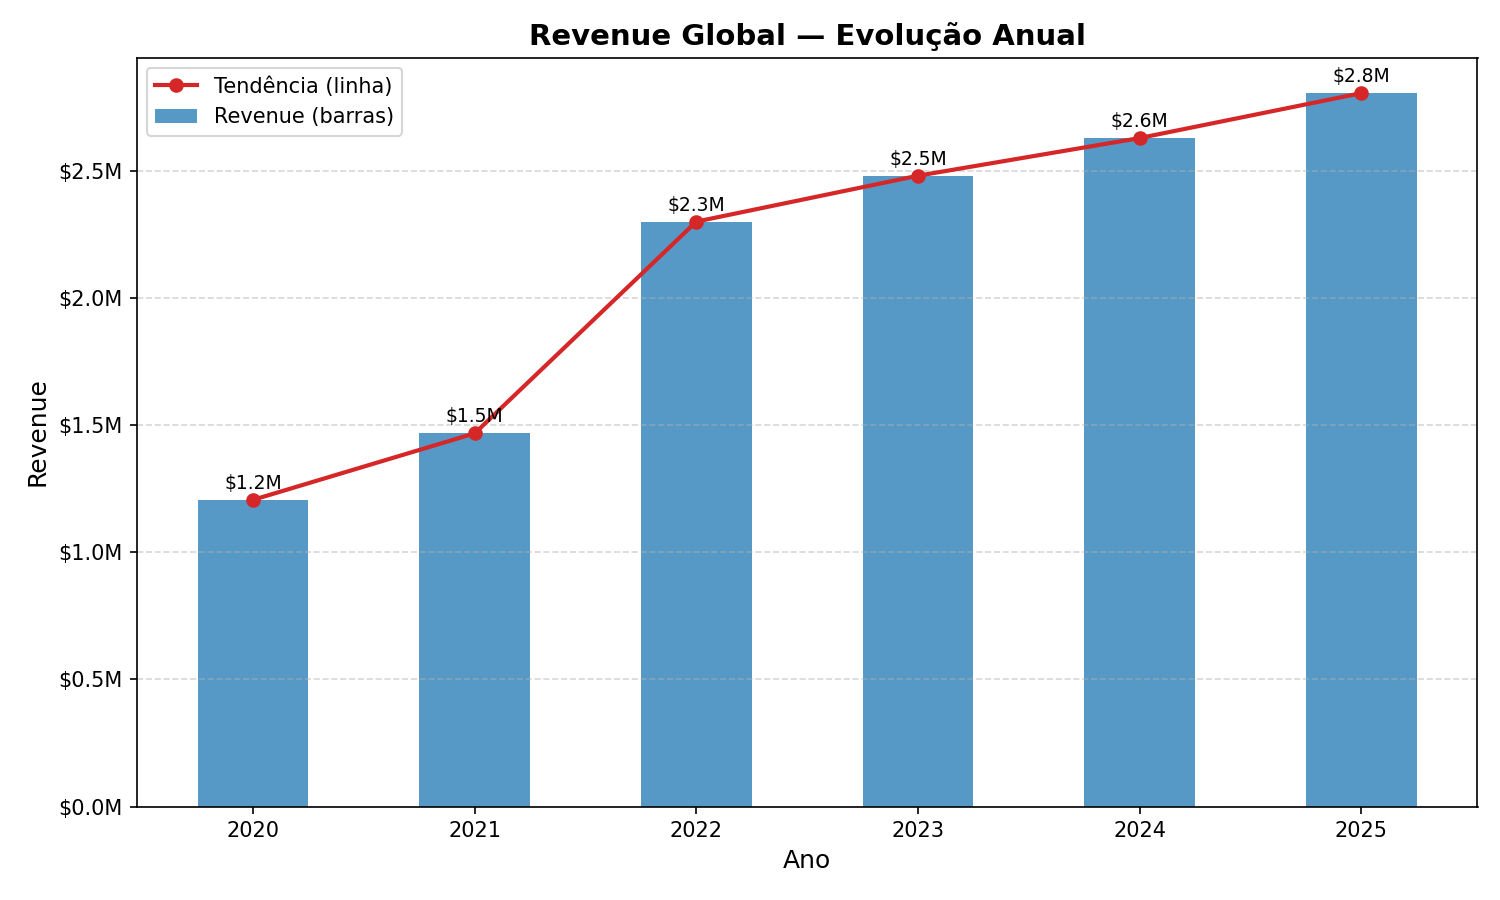
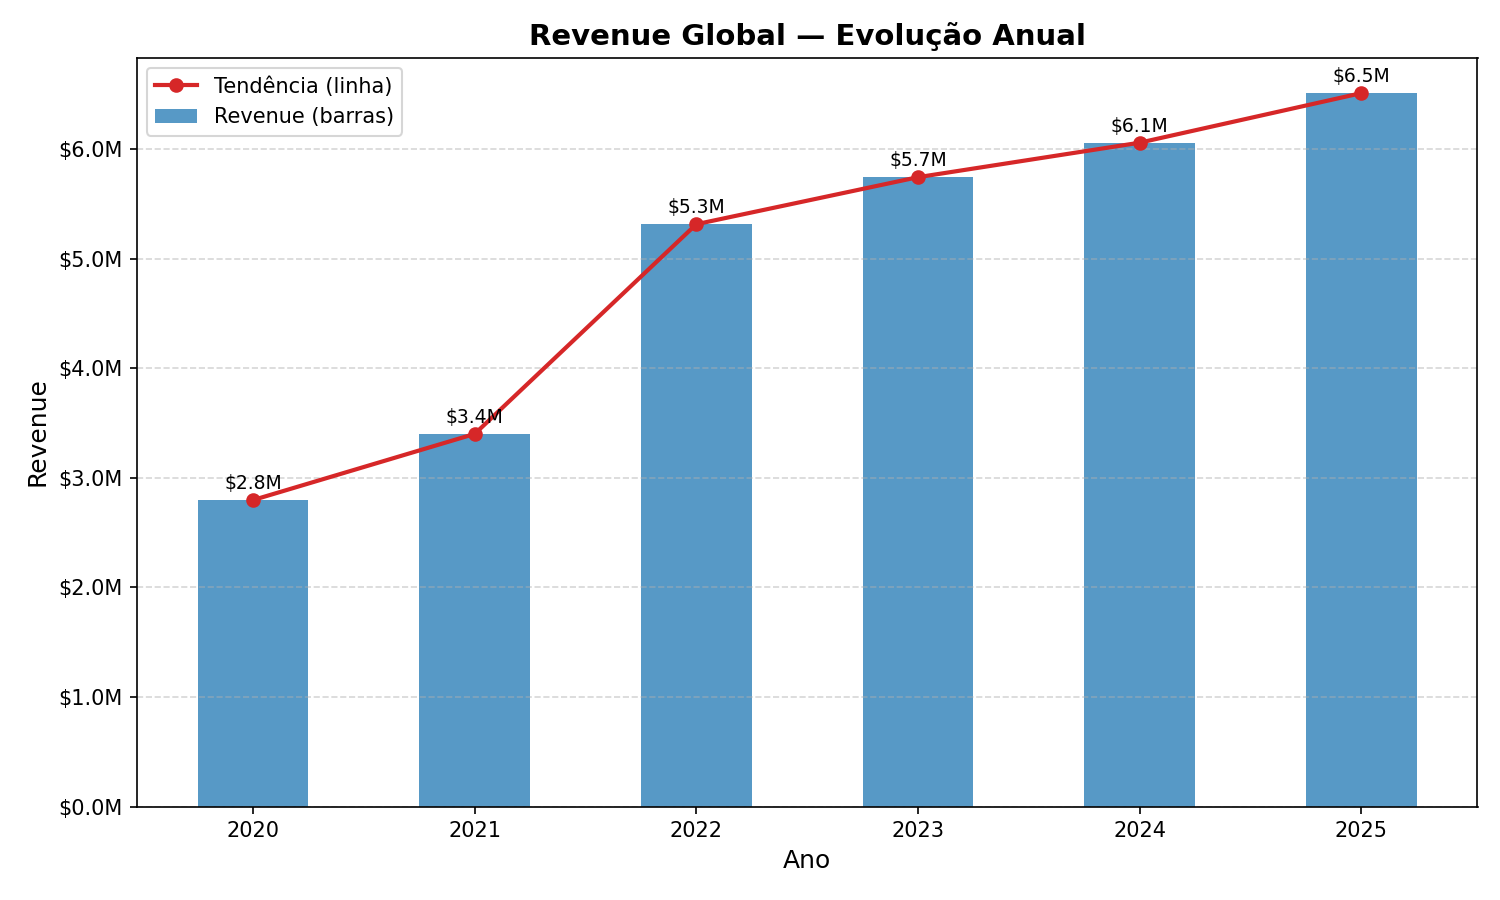
revenue

diff --git a/Financeiro/global/revenue_global.py b/Financeiro/global/revenue_global.py
@@ -15,7 +15,7 @@ OUTPUT_DIR = BASE_DIR  # gráficos guardados na mesma pasta
 
 # ── Load & prepare ─────────────────────────────────────────────────────────────
 df = pd.read_csv(DATA_PATH)
-df["Revenue"] = df["Sales_Price"] - df["Production_Cost"] - df["Shipping_Cost"]
+df["Revenue"] = df["Sales_Price"] 
 
 global_revenue = (
     df.groupby("Year")["Revenue"]

diff --git a/Financeiro/paises/revenue_paises.py b/Financeiro/paises/revenue_paises.py
@@ -20,7 +20,7 @@ OUTPUT_DIR = BASE_DIR
 
 # ── Load & prepare ─────────────────────────────────────────────────────────────
 df = pd.read_csv(DATA_PATH)
-df["Revenue"] = df["Sales_Price"] - df["Production_Cost"] - df["Shipping_Cost"]
+df["Revenue"] = df["Sales_Price"]
 
 country_revenue = (
     df.groupby(["Year", "Region", "Country"])["Revenue"]

diff --git a/Financeiro/continentes/revenue_continentes.py b/Financeiro/continentes/revenue_continentes.py
@@ -15,7 +15,7 @@ OUTPUT_DIR = BASE_DIR
 
 # ── Load & prepare ─────────────────────────────────────────────────────────────
 df = pd.read_csv(DATA_PATH)
-df["Revenue"] = df["Sales_Price"] - df["Production_Cost"] - df["Shipping_Cost"]
+df["Revenue"] = df["Sales_Price"] 
 
 region_revenue = (
     df.groupby(["Year", "Region"])["Revenue"]
